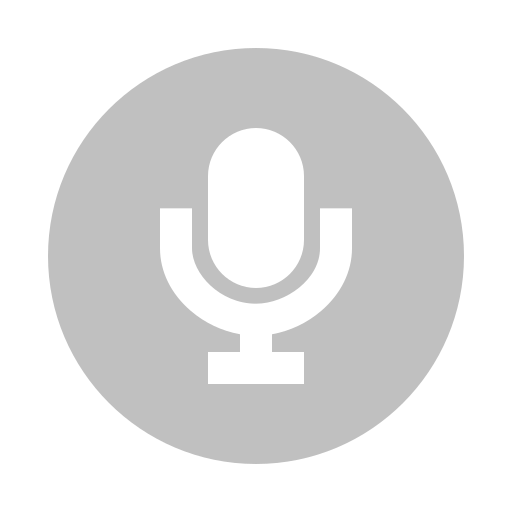
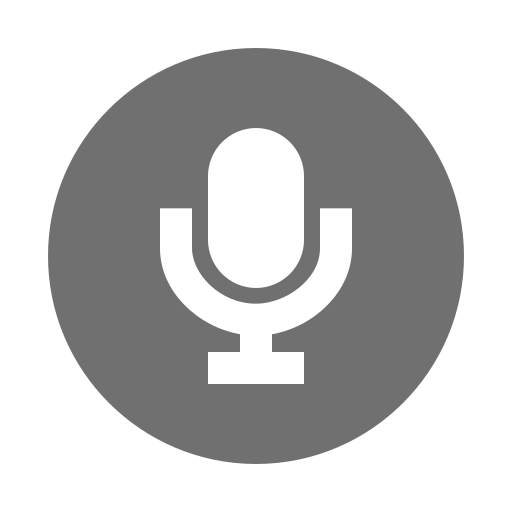
🚚 Rename: mic-on <-> mic-off 이름 교체 및 불필요한 부분 삭제

diff --git a/lib/features/onboarding/voice_analysis/presentation/pages/maximum_pitch_page.dart b/lib/features/onboarding/voice_analysis/presentation/pages/maximum_pitch_page.dart
@@ -64,7 +64,6 @@ class _MaximumPitchPageState extends ConsumerState<MaximumPitchPage> with Widget
 
     // 최저/최고 노트(String) 저장
     final pitchStats = ref.read(vocalPitchMetricsProvider);
-    final PitchToNoteConverter noteConverter = PitchToNoteConverter();
     final voiceTypeProfile = ref.read(voiceTypeProfileProvider.notifier);
     voiceTypeProfile.setMaxNote(PitchToNoteConverter.midiToNote(pitchStats.maxPitch!));
     voiceTypeProfile.setMinNote(PitchToNoteConverter.midiToNote(pitchStats.minPitch!));

diff --git a/lib/features/onboarding/voice_analysis/data/service/determine_voice_type.dart b/lib/features/onboarding/voice_analysis/data/service/determine_voice_type.dart
@@ -1,5 +1,3 @@
-import 'dart:math';
-
 class _VocalRange {
   final String name;
   final int min;
